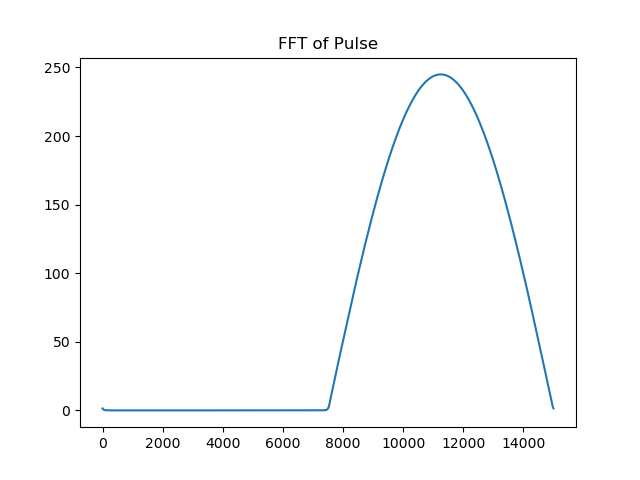
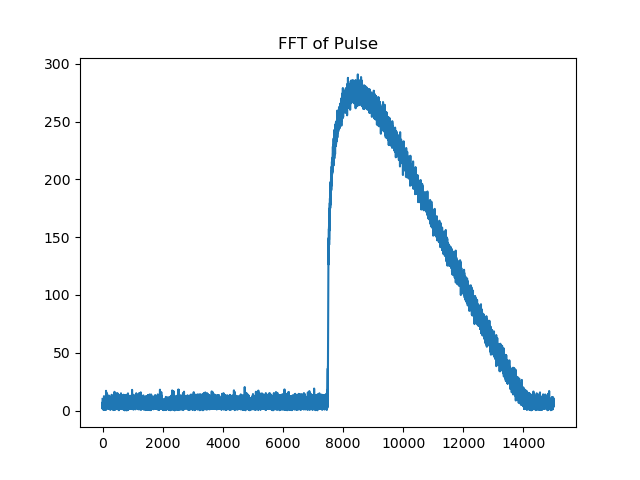
NLFM - Mitchell Implementation for python

diff --git a/RadarSystem/Radar.py b/RadarSystem/Radar.py
@@ -8,7 +8,7 @@ import matplotlib.pyplot as plt
 samp_rate = 1e6  #hz
 prf = 100 #Hz
 duty_factor = 1.5 #.05
-β = 500e3; #Pulse Bandwidth
+β = 300e3; #Pulse Bandwidth
 repetitions = 128
 fc = 915e6; #Hz
 
@@ -27,7 +27,17 @@ def single_pulse(samp_rate, prf, tau, β, target_pow = 0, envelope_type="Rectang
         return  
     
     if pulse_type == "Increasing": pulse = a * np.exp(1j*np.pi*(β/tau)*np.power(t,2))
-    #elif pulse_type == "Decreasing": pulse = a * np.exp(1j*np.pi*(β/tau)*(np.power(t,2) - 2*tau*t))    
+    elif pulse_type == "Decreasing": pulse = a * np.exp(-1j*np.pi*(β/tau)*(np.power(t,2) - 2*tau*t))    
+    elif pulse_type == "NLFM": 
+        base = 1.5
+        t1 = np.arange(0, tau, 1/(samp_rate * 4))
+        lfm = np.exp(1j*np.pi*(β/tau)*np.power(t1,2))
+        idx = np.power(np.linspace(0,np.power(len(t1), 1/base)-1,num=len(t)), base).astype(int)
+        #np.rint(np.logspace(0, np.log(len(t))/np.log(base), num=len(t), base=base)).astype(int)
+        pulse = a * lfm[idx]
+        # plt.clf()
+        # plt.plot(idx)
+        # plt.savefig("idx.png")
     else:
         LookupError("Pulse type not found")
         
@@ -37,7 +47,7 @@ def single_pulse(samp_rate, prf, tau, β, target_pow = 0, envelope_type="Rectang
     
     
     
-t, p = single_pulse(samp_rate, prf, tau, β, pulse_type="Increasing", envelope_type="HalfSin") #, envelope_type="HalfSin")            
+t, p = single_pulse(samp_rate, prf, tau, β, pulse_type="NLFM", envelope_type="HalfSin") #, envelope_type="HalfSin")            
     
     
 
@@ -61,6 +71,8 @@ ffts = np.abs(np.fft.fftshift(np.fft.fft(shaped, axis=1),axes=1))
 
 f = np.fft.fftshift(np.fft.fftfreq(int(len(p)/binLen), 1/samp_rate))
 t = np.arange(0, len(p)/samp_rate, len(p)/samp_rate/binLen)
+
+plt.clf()
 plt.pcolormesh(f, t, ffts, shading="gouraud")
 plt.title("Spectrogram")
 plt.xlabel('Frequency [Hz]')
